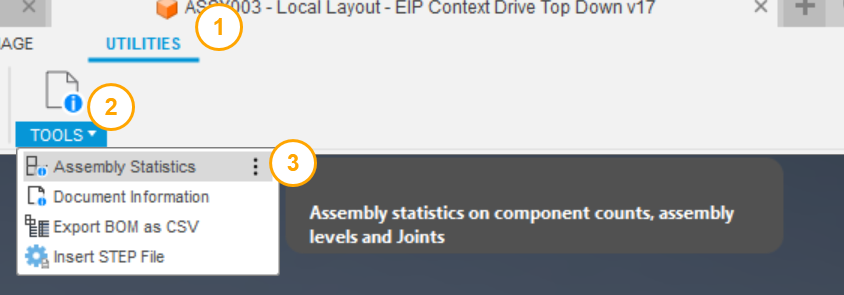
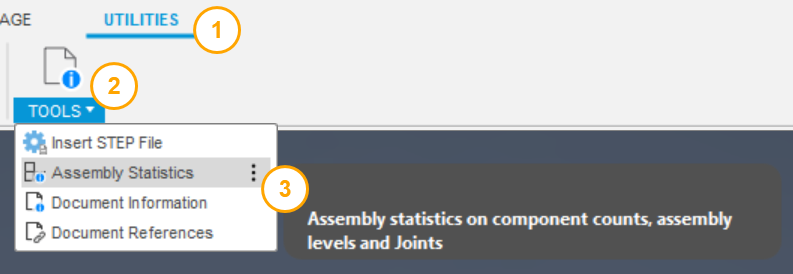
documentation updates

Changed region(s): [[0.0, 0.0, 1.0, 0.9343], [0.8777, 0.0, 1.0, 0.1168]]

diff --git a/docs/Install Assembly Tab.md b/docs/Install Assembly Tab.md
@@ -1,3 +1,69 @@
 # Install Assembly Tab to Design Toolbar
 
 [Back to Readme](../README.md)
+
+## Description 
+
+- Introduce a dedicate Assembly Experience
+  - Add **Assembly** tab to Fusion design documents
+  - New **Assemble** panel in the Assembly tab
+  - Moves all Assembly tools to an Assemble panel.
+  - New **Motion** panel in the Assembly tab
+  - Move motion tools to Motion panel
+  - Removes **Assemble** panel from other domain specific ( i.e. Sheetmetal, Plastic, others ) Modeling tabs.
+    > NOTE: To remove Assemble from the Mesh tab requires an additional xml document to be modified.
+  - Moves **As Built Joint** and **Joint Origin** into an **Advanced** sub menu
+  - Removes **Align** from all menus except the Solid tab Modify Panel
+  - Joint Origin command is now also in the Construct panel menu across all tabs
+- Adds a **PCB** Tab for creation for 3D PCB boards in context of design
+- Reorder the **Manage** tab
+  - Manage Tab is now before the Utilities tab
+  - BOM panel moved to the start of the manage tab tools
+- Remove Automated modeling panel
+  - **Automated modeling** now appears in Solid Tab's Create panel menu
+
+Assembly Tab Preview:
+
+![Assembly  tab preview](/docs/assets/asm-tab.png)
+
+NOTE that when you install the assembly tab a backup is made in the fusion application folder.
+
+## Access
+
+From the Fusion **File** dropdown menu **Install Assembly Tab** and follow prompts.
+
+## Uninstall
+
+To uninstall, restore the original file you archived and restart Fusion 360.
+
+## Special instructions for Mesh tab
+
+(These steps are completely optional and unless you frequently use the mesh tools can be skipped with)
+
+To remove Assemble tools from Mesh Tab toolbar:
+
+**!!! Backup your original TabToolbar.xml before modifying !!!**
+
+On **Mac OS**, edit the existing file here:
+
+> /Users/ <Your User Name> /Library/Application Support/Autodesk/webdeploy/production/ <Current deployment GUID> /Autodesk Fusion 360.app/Contents/Libraries/Applications/Paramesh//UI/ParaMeshUI/Resources/Toolbar/TabToolbars.xml`
+
+On **Windows**, edit the existing file here:
+
+> \Users\ <Your User Name> \AppData\Local\Autodesk\webdeploy\production\ <Current deployment GUID> \ParaMesh\UI\ParaMeshUI\Resources\Toolbar\TabToolbars.xml
+
+From `Tab Id="ParaMeshOuterTab"`  
+
+Remove `"AssemblePanel;"`  
+
+So the line now reads: `"Panels="ParaMeshCreatePanel;ParaMeshPreparePanel;ParaMeshModifyPanel;ConfigurePanel;ConstructionPanel;InspectPanel;InsertPanel;ParaMeshSelectPanel;ParaMeshExportPanel;SnapshotPanel"`
+
+From `Tab Id="ParaMeshBaseFeatureTab"`  
+
+Remove `"AssemblePanel;"`  
+
+So the line now reads: `Panels="ParaMeshCreateBaseFeature;ParaMeshPreparePanel;ParaMeshModifyPanel;ConstructionPanel;InspectPanel;ParaMeshSelectPanel;ParaMeshExportPanel;ParaMeshBaseFeatureStopPanel"`
+
+[Back to Readme](../README.md)
+
+IMA LLC Copyright

diff --git a/docs/Export Graphviz.md b/docs/Export Graphviz.md
@@ -1,3 +1,31 @@
 # Export Graphviz
 
 [Back to Readme](../README.md)
+
+## Description
+
+Export an assembly to [Grapviz](https://www.graphviz.org/) as a diagram
+
+Open an assembly. select the Export Graphviz Diagram... 
+Browse to the folder where you want to save the Graphviz DOT file and click OK.
+A dialog will confirm the name and location where the file was exported.
+
+Power tools will writes out DOT file diagram with basic info needed from Graphiviz. The diagram shows the root assembly and then all components and sub-assemblies by name. Only unique (local or remote) components are show. Components will only appear once even if used multiple times.
+
+Example Diagram:
+
+![diagram](/docs/assets/graphviz_001.png)
+
+You can use [online](https://dreampuf.github.io/GraphvizOnline) or [download](https://www.graphviz.org/download/) local tools and viewers. 
+
+NOTE: If a local graphviz viewer is installed on MAC PowerTools will attempt to open the diagram after export automatically. (Windows is still TODO).
+
+## Access
+
+From the Design Document's **File** dropdown menu select **Export Graphviz Diagram...**.
+
+![access](/docs/assets/graphviz_002.png)
+
+[Back to Readme](../README.md)
+
+IMA LLC Copyright

diff --git a/docs/Export Mermaid.md b/docs/Export Mermaid.md
@@ -1,3 +1,30 @@
-# Export MErmaid
+# Export Mermaid
+
 
 [Back to Readme](../README.md)
+
+## Description
+
+Export an assembly to [Mermaid](https://mermaid.js.org/#/) as a markdown diagram
+
+Open an assembly. select the Export Mermaid Diagram...
+Browse to the folder where you want to save the Mermaid mmd file and click OK.
+A dialog will confirm the name and location where the file was exported.
+
+Power tools will writes out DOT file diagram with basic info needed from Mermaid. The diagram shows the root assembly and then all components and sub-assemblies by name. Only unique (local or remote) components are show. Components will only appear once even if used multiple times.
+
+Example Diagram:
+
+![diagram](/docs/assets/exportmermaid_001.png)
+
+You can use [online](https://mermaid.live/) or download local tools and viewers. Very good viewers exist for Microsoft Visual Code.
+
+## Access
+
+From the Design Document's **File** dropdown menu select **Export Mermaid Diagram...**.
+
+![access](/docs/assets/exportmermaid_002.png)
+
+[Back to Readme](../README.md)
+
+IMA LLC Copyright

diff --git a/docs/Insert Step.md b/docs/Insert Step.md
@@ -1,3 +1,21 @@
 # Insert Step
 
 [Back to Readme](../README.md)
+
+## Description
+
+Working with STEP 3D models usually requires you upload to a Fusion Team Folder or open into a new Fusion Document Tab. For some workflows you may want a faster way to insert a STEP file as a component into the active document. Insert STEP power tool does this.
+
+Browse for a STEP file (\*.stp, \*.step, \*.STP, or \*.STEP) or F3D (\*.f3d) on your local computer and it will insert as a local component in the active document.
+
+Insert STEP is particularly handy for creating devices for ECAD when you want to load the STEP file into the 3D package design tools without having to upload or open in a separate tab.
+
+## Access
+
+Access to the **Insert STEP file...** is from the Design Document's **Utilities** tab, In the **Tools** panel.
+
+![access](/docs/assets/insertstep_002.png)
+
+[Back to Readme](../README.md)
+
+IMA LLC Copyright

diff --git a/docs/Reference Manager.md b/docs/Reference Manager.md
@@ -1,3 +1,27 @@
 # Document References
 
+## Description
+
+There are several different tools in Fusion to update a referenced document. These are spread out between the QAT (Quick Access Toolbar), the browser.
+
+If you use nesting manufacturing workflows you may have used the Reference Manager to manage source documents for nest studies. If you are not familiar with this tool, you now can now access the Reference Manager outside of nesting for general document management workflows.
+
+Reference Manager Dialog:
+
+![dialog](/docs/assets/refmanager_001.png)
+
+With this tool, you can:
+
+- Update all references
+- Update one or select references independently
+- Open a reference document to a new tab
+
+
+
+## Access
+
+Access to the **Reference Manager** command is from the **QAT** (Quick Access Toolbar).
+
+![access](/docs/assets/refmanager_002.png)
+
 [Back to Readme](../README.md)

diff --git a/docs/Export BOM.md b/docs/Export BOM.md
@@ -1,3 +1,32 @@
 # Export Bom
 
 [Back to Readme](../README.md)
+
+## Description
+
+Export the active document's component information as a [CSV](https://en.wikipedia.org/wiki/Comma-separated_values) file.
+
+Open an assembly. select the Export BOM as CSV... 
+Browse to the folder where you want to save the CSV file and click OK.
+A dialog will confirm the name and location where the file was exported.
+
+Power tools will writes out basic info needed from the assembly components. Columns include:
+
+- Name
+- Part Number
+- Material
+- Count
+
+Example CSV file:
+
+![CSV file](/docs/assets/exportbom_001.png)
+
+## Access
+
+From the Design Document's **File** dropdown menu select **Export BOM as CSV**.
+
+![access](/docs/assets/exportbom_002.png)
+
+[Back to Readme](../README.md)
+
+IMA LLC Copyright

diff --git a/docs/Recovery Save.md b/docs/Recovery Save.md
@@ -1,3 +1,19 @@
 # Recovery Save
 
 [Back to Readme](../README.md)
+
+## Description
+
+Fusion offers a lesser know keyboard shortcut to force save a recovery point for the active document. This ensures that should a rare crash occur you can recover you work. When working in a team, controlling unnecessary saves from prompting others to get out-of-date references can help reduce change chatter, but making sure local work is not lost is also important. A recover save allows this.
+
+A new file menu command is added to help make creating a recovery save easier rather than using the keyboard shortcut.
+
+## Access
+
+The **Refresh** command is accessed in a Fusion design document's **File** dropdown menu.
+
+![access](/docs/assets/recoverysave.png)
+
+[Back to Readme](../README.md)
+
+IMA LLC Copyright

diff --git a/docs/Document History.md b/docs/Document History.md
@@ -4,11 +4,11 @@
 
 ## Description
 
-Access to the active document's history can only be done by a right mouse click on the root of the browser. Document History tool adds a File menu entry to access the history in a more obvious and easy place.
+By default in Fusion, access to the active document's history can only be done by a right mouse click on the root of the browser. The Document History tool adds a QAT (Quick Access Toolbar) command entry to access the history in a more obvious and easy place.
 
 ## Access
 
-Access to the **History** command is from the **File** dropdown menu.
+Access to the **History** command is from the **QAT**.
 
 ![access](/docs/assets/dochistory.PNG)
 

diff --git a/docs/Get and Update.md b/docs/Get and Update.md
@@ -1,3 +1,15 @@
 # Get and Update
 
+## Description
+
+By default in Fusion you will see a yellow triangle on the QAT (Quick Access Toolbar) when child references are out of data. You my find that you have to click "Get all Latest" more than once using this default tool. You may also need to manually identify and update assembly contexts that need updating after getting latest references.
+
+The Get and Update tool adds a QAT (Quick Access Toolbar) command entry to access a more reliable update for assembly references and contexts.
+
+## Access
+
+Access to the **Get and Update** command is from the **QAT**.
+
+![access](/docs/assets/getandupdate.png)
+
 [Back to Readme](../README.md)

diff --git a/docs/Assembly Statistics.md b/docs/Assembly Statistics.md
@@ -16,10 +16,9 @@
 
 ![assembly stats](/docs/assets/assemblystats_001.png)
 
-
 ## Access
 
-The **Assembly Statistics** command is access from the Design Document's **Utilities** tab, In the **Tools** panel.
+Access to the **Assembly Statistics** command is from the Design Document's **Utilities** tab, In the **Tools** panel.
 
 ![access](/docs/assets/assemblystats_002.png)
 

diff --git a/docs/Toggle Data Pane.md b/docs/Toggle Data Pane.md
@@ -1,3 +1,11 @@
 # Toggle Data Pane
 
+Adds a button to quickly open or close the Date Pane without needing to move the mouse all the way to the upper left screen application corner.
+
+## Access
+
+Access the **Toggle Data** command on the **Navigation Toolbar** in a Fusion 3D design document.
+
+![access](/docs/assets/toggledata.png)
+
 [Back to Readme](../README.md)

diff --git a/docs/Document Information.md b/docs/Document Information.md
@@ -1,3 +1,17 @@
 # Document Information
 
 [Back to Readme](../README.md)
+
+## Description
+
+![dialog](/docs/assets/docinfo_001.png)
+
+## Access
+
+Access to the **Document Information** is from the Design Document's **Utilities** tab, In the **Tools** panel.
+
+![access](/docs/assets/docinfo_002.png)
+
+[Back to Readme](../README.md)
+
+IMA LLC Copyright
